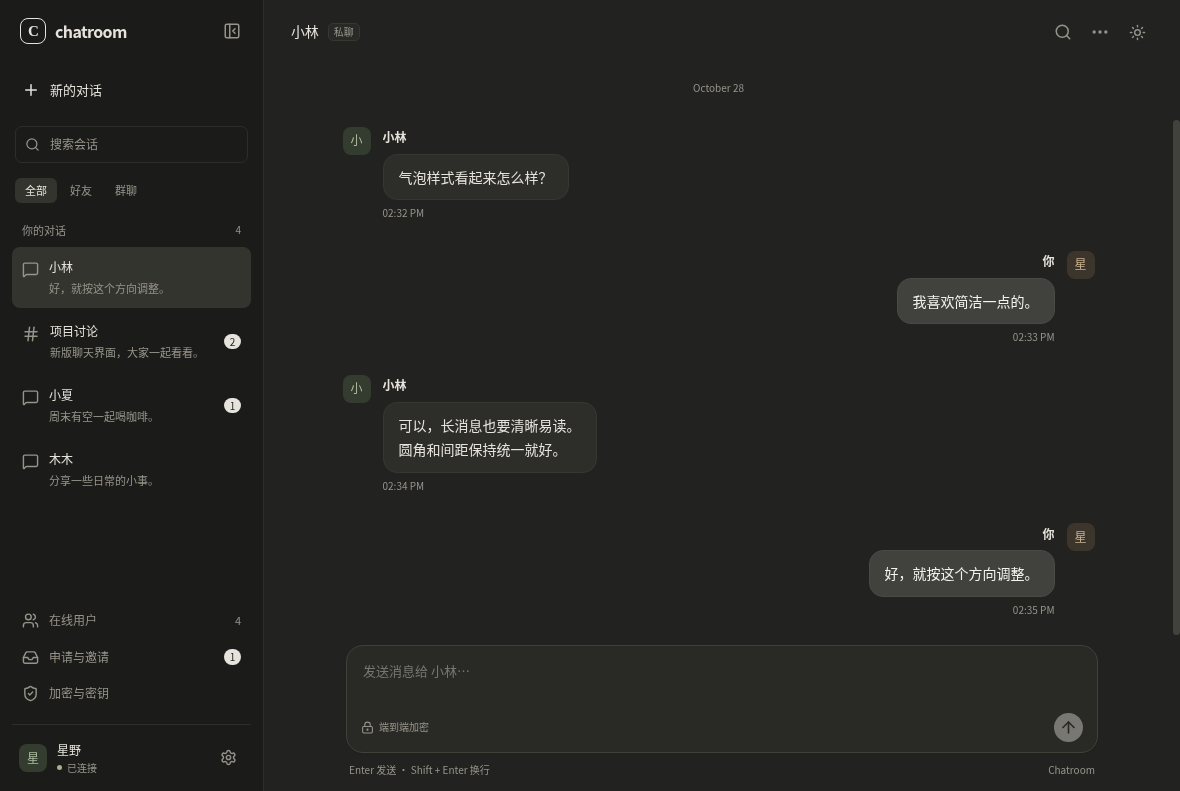
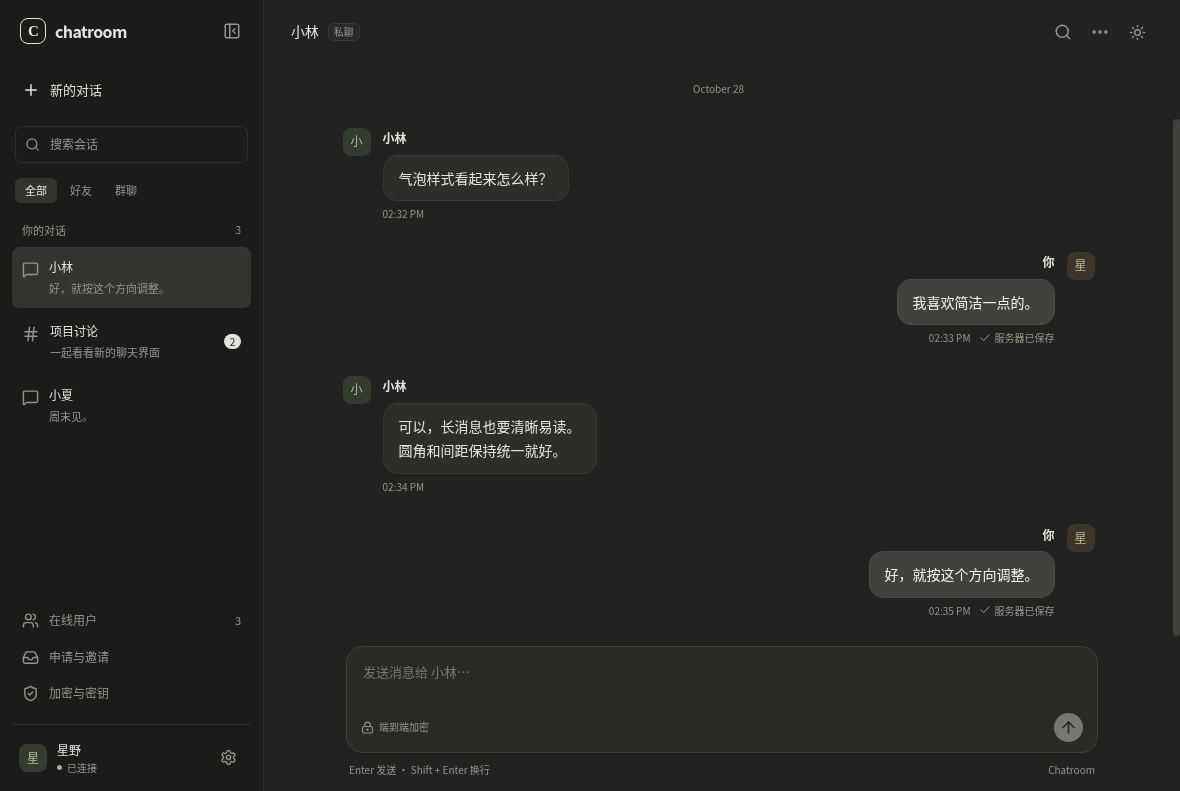
docs: refresh README screenshots for v2.0.4 sending states

diff --git a/README.md b/README.md
@@ -29,11 +29,22 @@
 
 ## 🖼 界面预览
 
-![Electron 浅色聊天界面](docs/images/electron-chat.png)
+![v2.0.4 浅色聊天气泡与服务器保存状态](docs/images/electron-chat.png)
 
-![Electron 深色聊天界面](docs/images/electron-chat-dark.png)
+![v2.0.4 深色聊天气泡与服务器保存状态](docs/images/electron-chat-dark.png)
 
-截图于 2026-10-27 在真实 Electron 窗口采集，聊天内容是虚构的渲染夹具。真实加密互操作由 Python / Go 服务端测试单独验证。聊天页右上角或「设置 → 通用」切换主题，保留输入与连接。旧版截图保存在 [截图目录](docs/images/README.md) 作为历史记录。
+自己的消息靠右、他人的消息靠左；单勾和「服务器已保存」表示服务端已保存，不代表对方已收到或已读。
+
+<details>
+<summary>查看待确认、核对与发送失败示例</summary>
+
+![v2.0.4 消息发送状态、核对原结果按钮和失败原因](docs/images/message-send-status-dark.png)
+
+保存结果不确定时可先「核对原结果」，服务器确认无保存回执后才允许显式重试。详见[消息发送状态](docs/DESKTOP_CLIENT.md#消息发送状态)。
+
+</details>
+
+以上为 2026-10-28 从 [v2.0.4 源码](https://github.com/starryuchuu/chatroom/tree/v2.0.4) 采集的真实 Electron 内容区截图，使用虚构聊天和状态，不包含系统标题栏。真实加密与保存行为另由 Python / Go 服务端和桌面测试验证。聊天页右上角或「设置 → 通用」切换主题，保留输入与连接。采集信息及旧版截图见[截图目录](docs/images/README.md)。
 
 ---
 

diff --git a/README_en.md b/README_en.md
@@ -42,9 +42,23 @@ This project implements an encrypted desktop chat room with Python and Go server
   - User-friendly error handling
 
 - 🖼 **New desktop preview**
-  - ![Electron light chat](docs/images/electron-chat.png)
-  - ![Electron dark chat](docs/images/electron-chat-dark.png)
-  - Captured in real Electron windows using synthetic rendering data. Actual E2EE is tested separately against both servers.
+
+  ![v2.0.4 light chat bubbles and server persistence status](docs/images/electron-chat.png)
+
+  ![v2.0.4 dark chat bubbles and server persistence status](docs/images/electron-chat-dark.png)
+
+  Incoming messages appear on the left and your messages on the right. A single check and “服务器已保存” mean the server saved the message; they do not indicate recipient delivery or reading.
+
+  <details>
+  <summary>View uncertain and failed message examples</summary>
+
+  ![v2.0.4 message status, original-result lookup and failure reason](docs/images/message-send-status-dark.png)
+
+  Reconcile an uncertain result first; an explicit retry is available only after the server reports no saved receipt. See [message sending status](docs/DESKTOP_CLIENT.md#消息发送状态).
+
+  </details>
+
+  Captured from the [v2.0.4 source](https://github.com/starryuchuu/chatroom/tree/v2.0.4) on 2026-10-28 in real Electron content areas, with synthetic chats and states. System title bars are outside the captures. E2EE and persistence behavior are tested separately against the Python and Go servers and desktop clients. See [capture notes](docs/images/README.md).
 
 - 🖼 **Historical v1.3.2 Interface Showcase**
   - Login Interface
